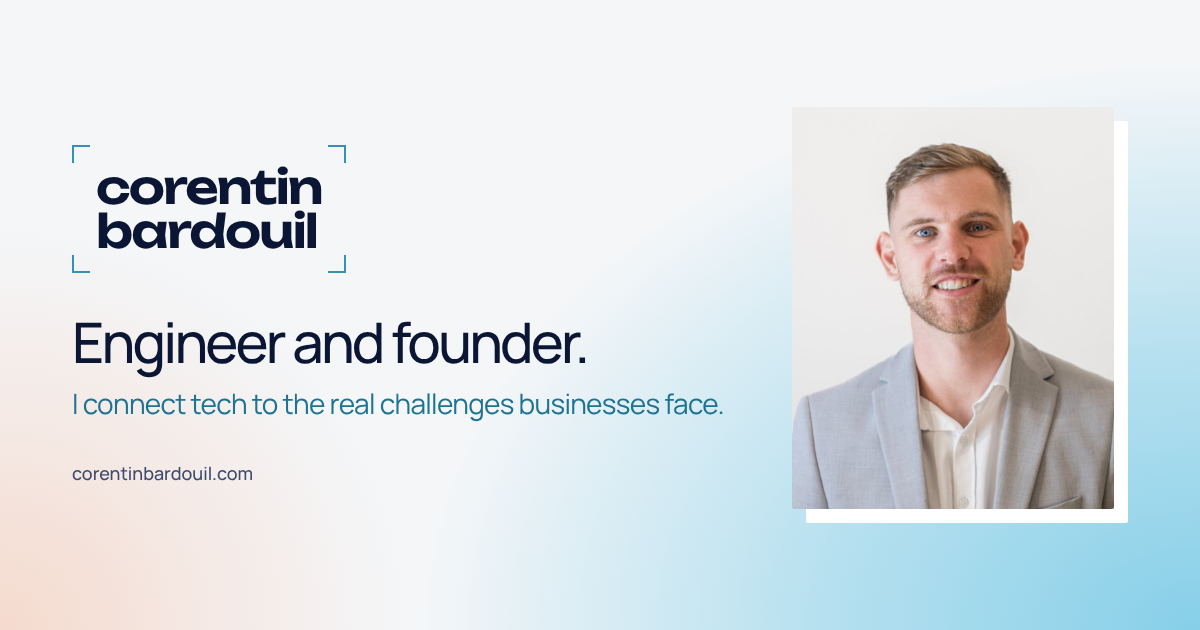
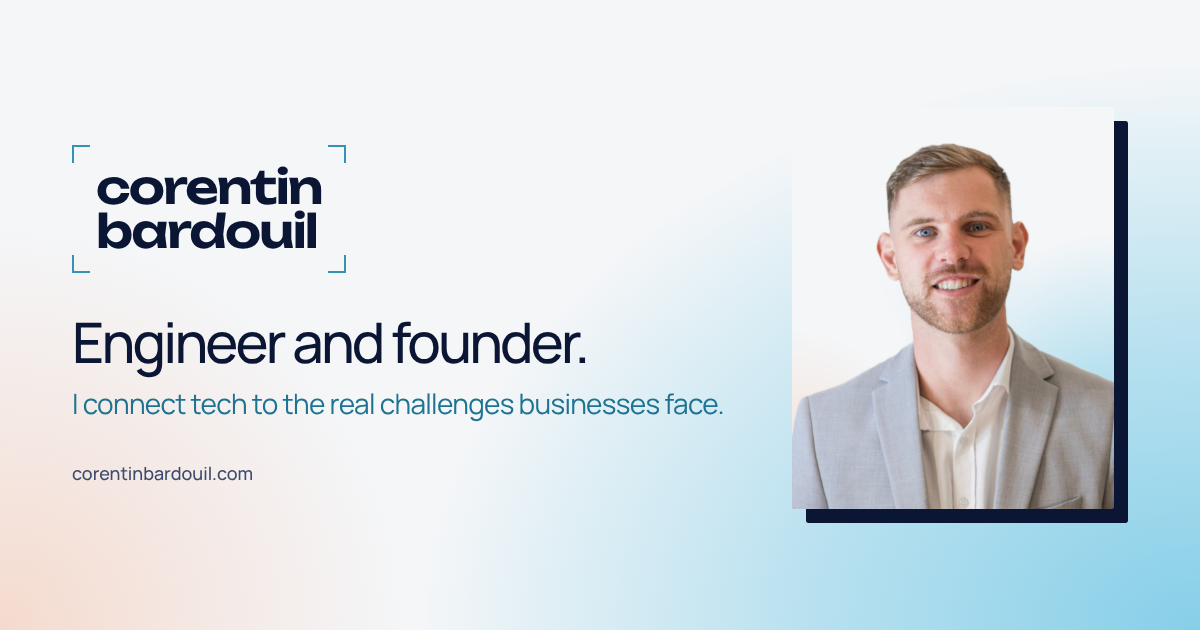
Portrait, icônes, images de partage et exemple de pilotage (#5)
* Grandes icônes avec cadre et portrait sur fond voile givré

* Fond bleu nuit derrière le portrait

* Portrait : détourage complet de la veste

* Exemple de tâche : le reporting mensuel remplace les factures fournisseurs

* Images de partage avec le nouveau portrait

---------

Changed region(s): [[0.6475, 0.181, 0.9558, 0.8444]]

diff --git a/src/data/home.tsx b/src/data/home.tsx
@@ -148,7 +148,7 @@ export const home: Record<Lang, HomeCopy> = {
       note: "Premier échange de 15 minutes, offert.",
       examplesLabel: "Exemples de tâches",
       examples: [
-        { label: "Finance", title: "Saisir les factures fournisseurs", text: "Rapprochées des bons de commande" },
+        { label: "Pilotage", title: "Préparer le reporting mensuel", text: "Chiffres réunis, écarts commentés" },
         { label: "Commercial", title: "Préparer la fiche prospect", text: "Avant chaque rendez-vous" },
         { label: "Service client", title: "Répondre aux demandes clients", text: "Triées, avec une réponse à valider" },
       ],
@@ -259,7 +259,7 @@ export const home: Record<Lang, HomeCopy> = {
       note: "Free 15-minute first call.",
       examplesLabel: "Example tasks",
       examples: [
-        { label: "Finance", title: "Enter supplier invoices", text: "Matched against purchase orders" },
+        { label: "Management", title: "Prepare the monthly report", text: "Figures gathered, variances explained" },
         { label: "Sales", title: "Prepare the prospect brief", text: "Before every meeting" },
         { label: "Customer service", title: "Answer customer requests", text: "Sorted, with a reply ready to approve" },
       ],

diff --git a/src/app/globals.css b/src/app/globals.css
@@ -103,7 +103,7 @@ a:focus-visible,button:focus-visible,summary:focus-visible{outline:2px solid cur
 #qui{padding:112px 0 120px}
 .qui{display:grid;grid-template-columns:minmax(0,0.75fr) minmax(0,1.25fr);grid-template-areas:'portrait tete' 'portrait lignes';grid-template-rows:auto 1fr;column-gap:96px;row-gap:40px;align-items:start}
 .portrait{grid-area:portrait;position:relative;padding:0 16px 16px 0}
-.portrait-fond{position:absolute;left:16px;top:16px;right:0;bottom:0;overflow:hidden;background:#F4F6F8;border-radius:2px}
+.portrait-fond{position:absolute;left:16px;top:16px;right:0;bottom:0;background:#0A1633;border-radius:2px}
 .portrait-image{position:relative;aspect-ratio:4 / 5;background:#E8EBF2;border-radius:2px;overflow:hidden}
 .portrait-image img{display:block;width:100%;height:100%;object-fit:cover;object-position:50% 10%}
 .qui-tete{grid-area:tete;display:flex;flex-direction:column;gap:20px}

diff --git a/src/components/site/Home.tsx b/src/components/site/Home.tsx
@@ -90,9 +90,7 @@ export function Home({ lang }: { lang: Lang }) {
       <section id="qui" className="section">
         <div className="wrap qui">
           <div className="portrait">
-            <div aria-hidden="true" className="portrait-fond">
-              <Gradient variant="haut" />
-            </div>
+            <div aria-hidden="true" className="portrait-fond" />
             <div className="portrait-image">
               <Image
                 src="/images/portrait-corentin.jpg"

diff --git a/src/app/manifest.ts b/src/app/manifest.ts
@@ -14,7 +14,7 @@ export default function manifest(): MetadataRoute.Manifest {
     theme_color: "#F4F6F8",
     icons: [
       { src: "/icon-192.png", sizes: "192x192", type: "image/png" },
-      { src: "/icon.png", sizes: "512x512", type: "image/png" },
+      { src: "/icon-512.png", sizes: "512x512", type: "image/png" },
     ],
   };
 }

diff --git a/CLAUDE.md b/CLAUDE.md
@@ -51,6 +51,6 @@ Bilingual showcase site (FR at the root, EN under `/en`), reproduced from the de
 - `SITE_URL` is `https://www.corentinbardouil.com`: Vercel redirects the bare domain to www, so absolute URLs must use www.
 - `robots.ts`, `sitemap.ts` (built from `pages`, `lastmod` = `LAST_UPDATE`, update it when copy changes) and `manifest.ts`.
 - Home pages render Person + WebSite JSON-LD (`homeJsonLd`), limited to what the page shows.
-- Icons: `src/app/favicon.ico`, `icon.png`, `icon.svg`, `apple-icon.png`, plus `public/icon-192.png` for the manifest. Keep their URLs stable.
+- Icons: tab icons are the plain frost « c » (`src/app/favicon.ico`, `icon.png`, `icon.svg`), legible at 16px. Large icons use the framed version (`src/app/apple-icon.png`, `public/icon-192.png` and `icon-512.png` for the manifest). Keep their URLs stable.
 
 **Copy rules**: do not rewrite validated copy, no em dashes, no « · », say « entreprises » rather than « PME », never « agents IA », do not name clients, partners or the unannounced company anywhere.
